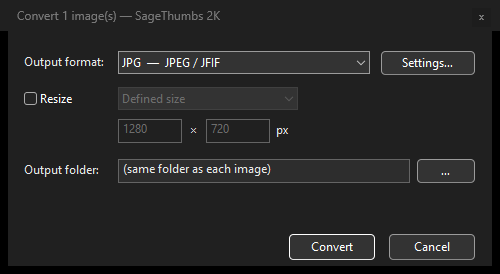
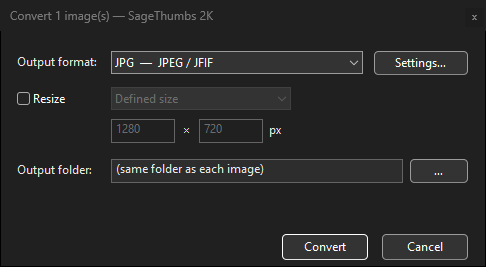
fix(shot): crop the invisible DWM resize border off captures
GetWindowRect includes DWM's ~8px invisible resize border (left/right/bottom),
which PrintWindow renders near-black — so every capture had a black frame. Crop
each capture to the true visible bounds (DWMWA_EXTENDED_FRAME_BOUNDS). Regenerated
the README/site assets (settings.gif 772x588 -> 758x581, convert.png -> 486x267).

Changed region(s): [[0.0, 0.0899, 1.0, 1.0], [0.0309, 0.03, 0.4321, 0.0899], [0.9568, 0.0599, 0.9877, 0.0899]]

diff --git a/src/bin/app/screenshot/window_shot.rs b/src/bin/app/screenshot/window_shot.rs
@@ -69,7 +69,44 @@ pub(crate) unsafe fn capture_hwnd_bgra(hwnd: HWND) -> Option<(Vec<u8>, i32, i32)
     if !printed || got == 0 {
         return None;
     }
-    Some((buf, w, h))
+    // GetWindowRect includes DWM's INVISIBLE resize border (~8px on left/right/bottom) that isn't
+    // part of the visible window — PrintWindow renders it near-black, so the capture gets a black
+    // frame. Crop to the TRUE visible bounds (DWMWA_EXTENDED_FRAME_BOUNDS) so the window sits flush.
+    Some(crop_to_extended_frame(hwnd, &r, buf, w, h))
+}
+
+/// Crop a top-down BGRA capture (taken at `wr` = the window's `GetWindowRect`) down to the
+/// window's VISIBLE frame (`DWMWA_EXTENDED_FRAME_BOUNDS`), dropping the invisible DWM resize
+/// border. Falls back to the uncropped buffer if DWM can't report bounds or there's nothing to
+/// trim.
+unsafe fn crop_to_extended_frame(hwnd: HWND, wr: &RECT, buf: Vec<u8>, w: i32, h: i32) -> (Vec<u8>, i32, i32) {
+    use windows::Win32::Graphics::Dwm::{DwmGetWindowAttribute, DWMWA_EXTENDED_FRAME_BOUNDS};
+    let mut efb = RECT::default();
+    let ok = DwmGetWindowAttribute(
+        hwnd,
+        DWMWA_EXTENDED_FRAME_BOUNDS,
+        &mut efb as *mut _ as *mut c_void,
+        core::mem::size_of::<RECT>() as u32,
+    )
+    .is_ok();
+    if !ok {
+        return (buf, w, h);
+    }
+    let dx = (efb.left - wr.left).clamp(0, w);
+    let dy = (efb.top - wr.top).clamp(0, h);
+    let cw = (efb.right - efb.left).clamp(1, w - dx);
+    let ch = (efb.bottom - efb.top).clamp(1, h - dy);
+    if dx == 0 && dy == 0 && cw == w && ch == h {
+        return (buf, w, h); // nothing to trim
+    }
+    let (dxu, dyu, cwu, chu, wu) = (dx as usize, dy as usize, cw as usize, ch as usize, w as usize);
+    let mut out = vec![0u8; cwu * chu * 4];
+    for row in 0..chu {
+        let src = ((dyu + row) * wu + dxu) * 4;
+        let dst = row * cwu * 4;
+        out[dst..dst + cwu * 4].copy_from_slice(&buf[src..src + cwu * 4]);
+    }
+    (out, cw, ch)
 }
 
 /// Capture `hwnd` to a PNG at `path`. Returns whether the file was written.